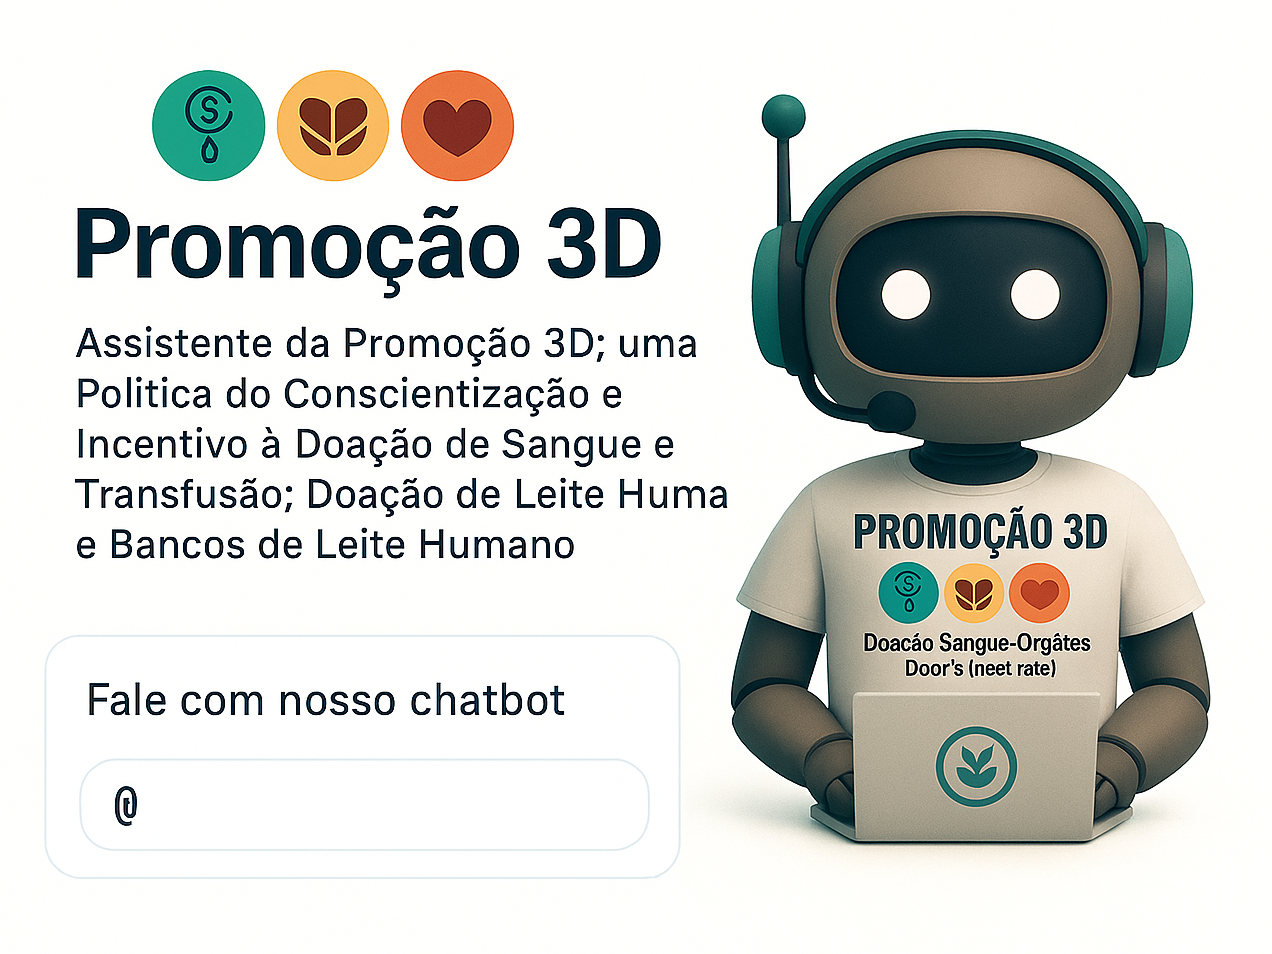
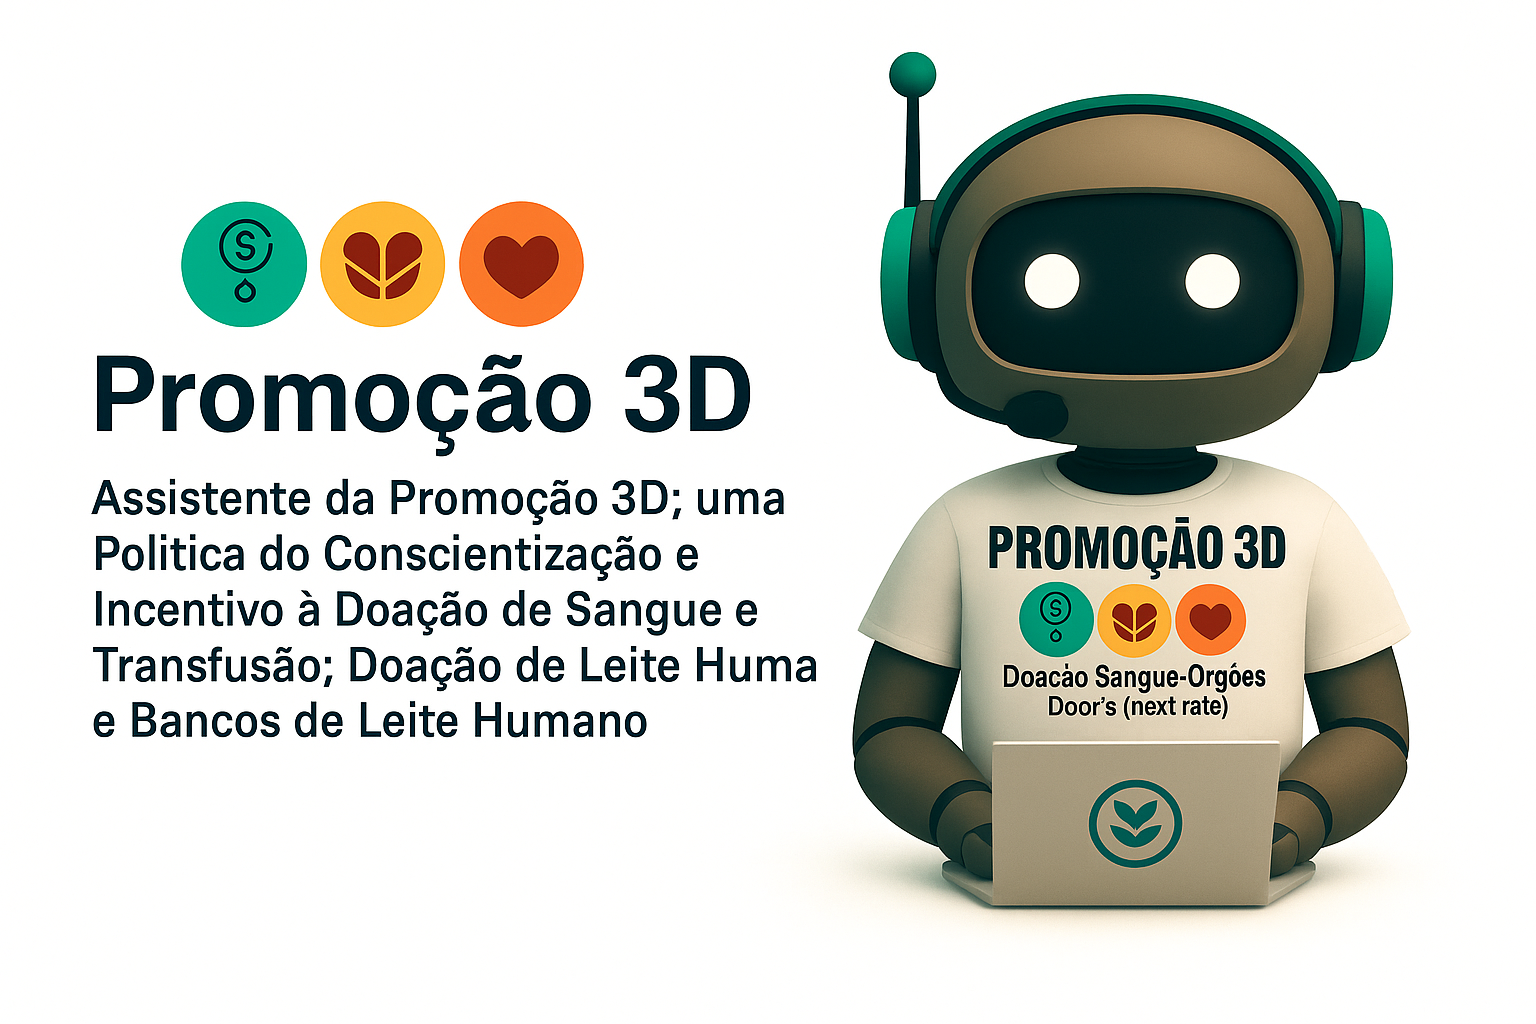
Add Audiência Pública section with styling and video embed
- Introduced a new section for "Audiência Pública" in index.html, including an overlay, title, and video iframe.
- Added corresponding styles in main.scss for the new section, including layout, background, and button styles.
- Updated background gradients for existing elements for consistency.
- Replaced the chat image with a new version in the assets.

diff --git a/assets/sass/main.scss b/assets/sass/main.scss
@@ -838,11 +838,7 @@ $color-black: black;
 
       .card1 {
         .text {
-          background-image: linear-gradient(
-            to right,
-            #619b3b,
-            #98C289
-          );
+          background-image: linear-gradient(to right, #619b3b, #98c289);
         }
         .img {
           padding: 1em 1em 2em 1em;
@@ -873,7 +869,7 @@ $color-black: black;
           background-image: linear-gradient(
             to right,
             #cda625,
-            lighten(#DDC882, 3%)
+            lighten(#ddc882, 3%)
           );
         }
         .img {
@@ -999,6 +995,106 @@ $color-black: black;
         100% {
           box-shadow: 0px 0px 10px #da56bd;
           transform: scale(100%);
+        }
+      }
+    }
+  }
+}
+
+/*==================(Audiência)=======================*/
+
+.audiencia {
+  position: relative;
+  background-image: url("../image/fundo2.png");
+  background-repeat: no-repeat;
+  background-size: cover;
+  background-position: center center;
+  overflow: hidden;
+
+  &__overlay {
+    position: absolute;
+    top: 0;
+    bottom: 0;
+    width: 100%;
+    background-color: rgba(0, 0, 0, 0.678);
+    z-index: 0;
+  }
+
+  &__content {
+    @include flex-box(column, center, center, 2rem);
+    max-width: 1080px;
+    width: 95%;
+    padding: 2rem 0;
+    margin: auto;
+    position: relative;
+    z-index: 2;
+    min-height: 100vh;
+
+    &--primary {
+      @include flex-box(column, center, center, 0.5rem);
+      text-align: center;
+      .group-sup-img {
+        @include flex-box(row, center, center, 0);
+        img {
+          max-width: 20px;
+        }
+        margin-bottom: 15px;
+      }
+
+      &__suptitle {
+        font-size: 1em;
+        text-transform: uppercase;
+        font-family: $font-secund;
+        letter-spacing: -1px;
+        color: $color-white;
+        font-weight: 300;
+      }
+
+      &__title {
+        color: $color-white;
+        font-family: $font-secund;
+        font-size: 3rem;
+        max-width: 600px;
+        font-weight: 300;
+        line-height: 1;
+        text-transform: uppercase;
+      }
+    }
+
+    &--secundary {
+      width: 100%;
+      max-width: 80rem;
+
+      iframe {
+        width: 100%;
+        height: 100%;
+        aspect-ratio: 8/4;
+        border-radius: 10px;
+      }
+
+      .buttons_audiencia {
+        @include flex-box(row, center, center, 1.5rem);
+        margin-top: 1rem;
+        
+        button {
+          @include flex-box(row, center, center, 0);
+          cursor: pointer;
+          width: 3rem;
+          height: 3rem;
+          border-radius: 50%;
+          background-color: $color-white;
+          border: none;
+
+          i {
+            font-size: 2rem;
+            transition: all 0.3s ease;
+            color: #d0a97c;
+            margin-bottom: 3px;
+
+            &:hover {
+              color: darken(#d0a97c, 10%);
+            }
+          }
         }
       }
     }

diff --git a/assets/css/styles.css b/assets/css/styles.css
@@ -807,7 +807,7 @@
   height: 23em;
 }
 .informacoes__content--secundary .card1 .text {
-  background-image: linear-gradient(to right, #619b3b, #98C289);
+  background-image: linear-gradient(to right, #619b3b, #98c289);
 }
 .informacoes__content--secundary .card1 .img {
   padding: 1em 1em 2em 1em;
@@ -951,6 +951,114 @@
     box-shadow: 0px 0px 10px #da56bd;
     transform: scale(100%);
   }
+}
+
+/*==================(Audiência)=======================*/
+.audiencia {
+  position: relative;
+  background-image: url("../image/fundo2.png");
+  background-repeat: no-repeat;
+  background-size: cover;
+  background-position: center center;
+  overflow: hidden;
+}
+.audiencia__overlay {
+  position: absolute;
+  top: 0;
+  bottom: 0;
+  width: 100%;
+  background-color: rgba(0, 0, 0, 0.678);
+  z-index: 0;
+}
+.audiencia__content {
+  display: flex;
+  flex-direction: column;
+  justify-content: center;
+  align-items: center;
+  gap: 2rem;
+  max-width: 1080px;
+  width: 95%;
+  padding: 2rem 0;
+  margin: auto;
+  position: relative;
+  z-index: 2;
+  min-height: 100vh;
+}
+.audiencia__content--primary {
+  display: flex;
+  flex-direction: column;
+  justify-content: center;
+  align-items: center;
+  gap: 0.5rem;
+  text-align: center;
+}
+.audiencia__content--primary .group-sup-img {
+  display: flex;
+  flex-direction: row;
+  justify-content: center;
+  align-items: center;
+  gap: 0;
+  margin-bottom: 15px;
+}
+.audiencia__content--primary .group-sup-img img {
+  max-width: 20px;
+}
+.audiencia__content--primary__suptitle {
+  font-size: 1em;
+  text-transform: uppercase;
+  font-family: "Josefin Sans", sans-serif;
+  letter-spacing: -1px;
+  color: white;
+  font-weight: 300;
+}
+.audiencia__content--primary__title {
+  color: white;
+  font-family: "Josefin Sans", sans-serif;
+  font-size: 3rem;
+  max-width: 600px;
+  font-weight: 300;
+  line-height: 1;
+  text-transform: uppercase;
+}
+.audiencia__content--secundary {
+  width: 100%;
+  max-width: 80rem;
+}
+.audiencia__content--secundary iframe {
+  width: 100%;
+  height: 100%;
+  aspect-ratio: 8/4;
+  border-radius: 10px;
+}
+.audiencia__content--secundary .buttons_audiencia {
+  display: flex;
+  flex-direction: row;
+  justify-content: center;
+  align-items: center;
+  gap: 1.5rem;
+  margin-top: 1rem;
+}
+.audiencia__content--secundary .buttons_audiencia button {
+  display: flex;
+  flex-direction: row;
+  justify-content: center;
+  align-items: center;
+  gap: 0;
+  cursor: pointer;
+  width: 3rem;
+  height: 3rem;
+  border-radius: 50%;
+  background-color: white;
+  border: none;
+}
+.audiencia__content--secundary .buttons_audiencia button i {
+  font-size: 2rem;
+  transition: all 0.3s ease;
+  color: #d0a97c;
+  margin-bottom: 3px;
+}
+.audiencia__content--secundary .buttons_audiencia button i:hover {
+  color: rgb(194.5337078652, 144.3595505618, 86.4662921348);
 }
 
 /*==================(RESULTADOS)===================*/

diff --git a/index.html b/index.html
@@ -240,6 +240,44 @@
           </div>
         </section>
       </div>
+      <!-- Audiência Pública -->
+      <div class="audiencia" id="audiencia">
+        <div class="audiencia__overlay"></div>
+        <section class="audiencia__content">
+          <div class="audiencia__content--primary">
+            <div class="group-sup-img">
+              <img src="assets/image/logo.png" alt="" />
+              <span class="audiencia__content--primary__suptitle"
+                >Audiência Pública</span
+              >
+            </div>
+            <h2 class="audiencia__content--primary__title">
+              Audiência Pública da Promoção 3D
+            </h2>
+          </div>
+          <div class="audiencia__content--secundary">
+            <iframe
+            class="video-audiencia"
+              src="https://www.youtube.com/embed/cgEkDVPqyYU?si=KLzojCjdG_lIBrxb"
+              title="YouTube video player"
+              frameborder="0"
+              allow="accelerometer; autoplay; clipboard-write; encrypted-media; gyroscope; picture-in-picture; web-share"
+              referrerpolicy="strict-origin-when-cross-origin"
+              allowfullscreen
+            ></iframe>
+           <div class="buttons_audiencia">
+             <button class="btn-prev">
+              <i class="bi bi-arrow-left-circle-fill"></i>
+            </button>
+             <button class="btn-next">
+              <i class="bi bi-arrow-right-circle-fill"></i>
+            </button>
+           </div>
+
+          </div>
+        </section>
+      </div>
+
       <!-- Informações sobre a doação -->
       <div class="informacoes" id="informacoes">
         <section class="informacoes__content">
